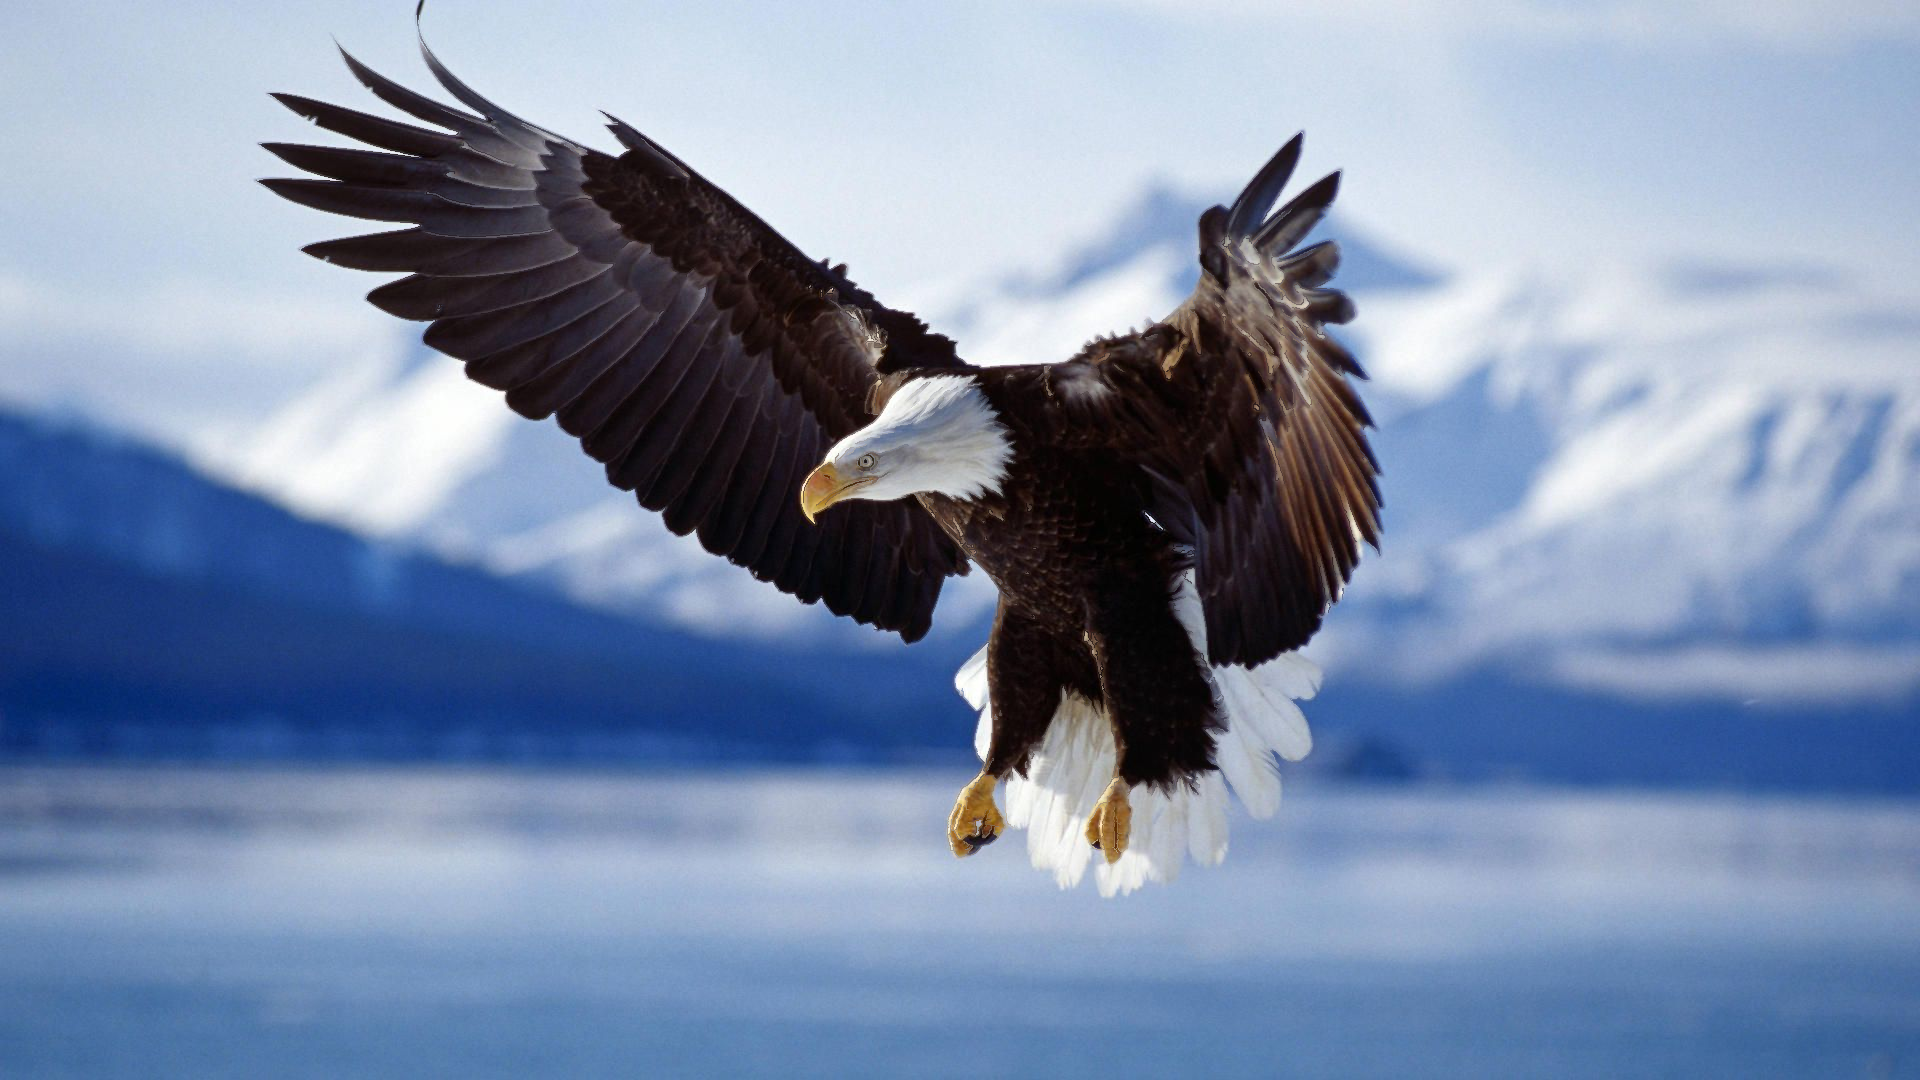
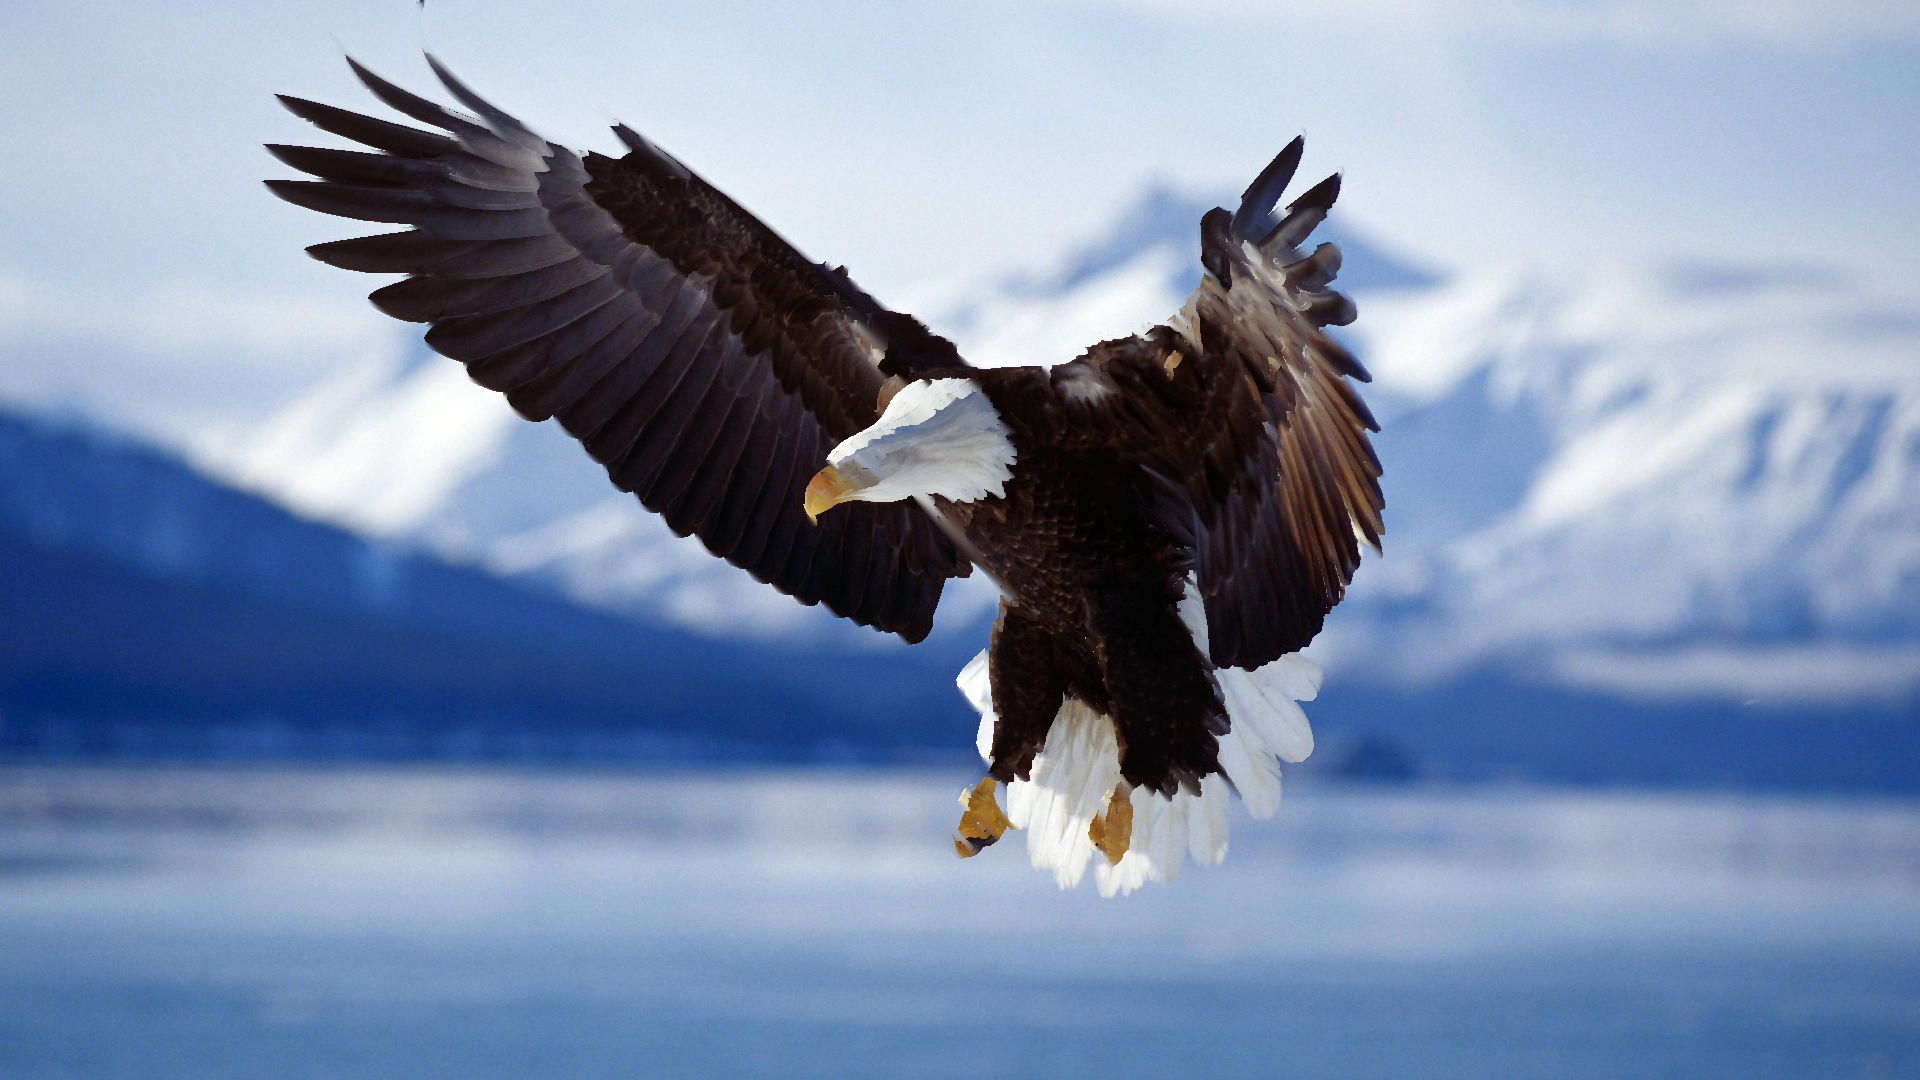
major blur fix

diff --git a/AntiCopyBlur/EdgeBlur.py b/AntiCopyBlur/EdgeBlur.py
@@ -1,5 +1,5 @@
 import cv2, os
-import numpy as np
+from skimage.metrics import structural_similarity as ssim, peak_signal_noise_ratio as psnr
 from cannyEdge import canny
 
 '''
@@ -17,22 +17,28 @@ path = os.getcwd()
 imgname = "eagle"
 canny(imgname)
 
-cannyimg = cv2.imread("{p}/images/canny_image/{ing}_canny.png".format(p=path, ing=imgname), cv2.IMREAD_GRAYSCALE)
+cannyimg = cv2.imread("{p}/images/canny_image/{ing}_canny.png".format(p=path, ing=imgname), cv2.IMREAD_GRAYSCALE)   
 orig_img = cv2.imread("{p}/images/original_image/{ing}.png".format(p=path, ing=imgname))
 
-n = 30 # 커널 크기
+kernelSize = 5 # 블러 커널 크기 
+nearbyBlurSize = 5 # 블러 처리할 주변 픽셀 수
 
-for x in range(n//2, cannyimg.shape[0]-(n//2)):
-    for y in range(n//2, cannyimg.shape[1]-(n//2)):
-        if cannyimg[x][y] == 255:
-            
-            for p in range(3):
-                sum = 0
+term = (kernelSize//2) + (nearbyBlurSize//2)
 
-                for i in range(n):
-                    for j in range(n):
-                        sum += orig_img[x+i-(n//2)][y+j-(n//2)][p] # 커널 만들어서 여따 곱해도 됨 근데 너무 느림
-                orig_img[x][y][p] = sum // (n*n)
+for x in range(term, cannyimg.shape[0]-term):
+        for y in range(term, cannyimg.shape[1]-term):
+            if cannyimg[x][y] == 255:
+                
+                for t in range(x-(nearbyBlurSize//2), x+(nearbyBlurSize//2)):
+                    for c in range(y-(nearbyBlurSize//2), y+(nearbyBlurSize//2)):
+                            
+                        for p in range(3):
+                            sum = 0
+
+                            for i in range(kernelSize):
+                                for j in range(kernelSize):
+                                    sum += orig_img[t+i-term][c+j-term][p] 
+                            orig_img[t][c][p] = sum // (kernelSize*kernelSize)
 
             '''
             for tx in range(5):
@@ -44,6 +50,7 @@ for x in range(n//2, cannyimg.shape[0]-(n//2)):
             '''
 
 cv2.imwrite("{p}/images/edgeblur_image/{ing}_edgeblur.png".format(p=path, ing=imgname), orig_img)
+print(imgname, psnr(cv2.imread("{p}/images/original_image/{ing}.png".format(p=path, ing=imgname)), cv2.imread("{p}/images/edgeblur_image/{ing}_edgeblur.png".format(p=path, ing=imgname))), ssim(cv2.imread("{p}/images/original_image/{ing}.png".format(p=path, ing=imgname)), cv2.imread("{p}/images/edgeblur_image/{ing}_edgeblur.png".format(p=path, ing=imgname)), multichannel=True))
 
 '''
 dx = [1, 0, -1, 0]
